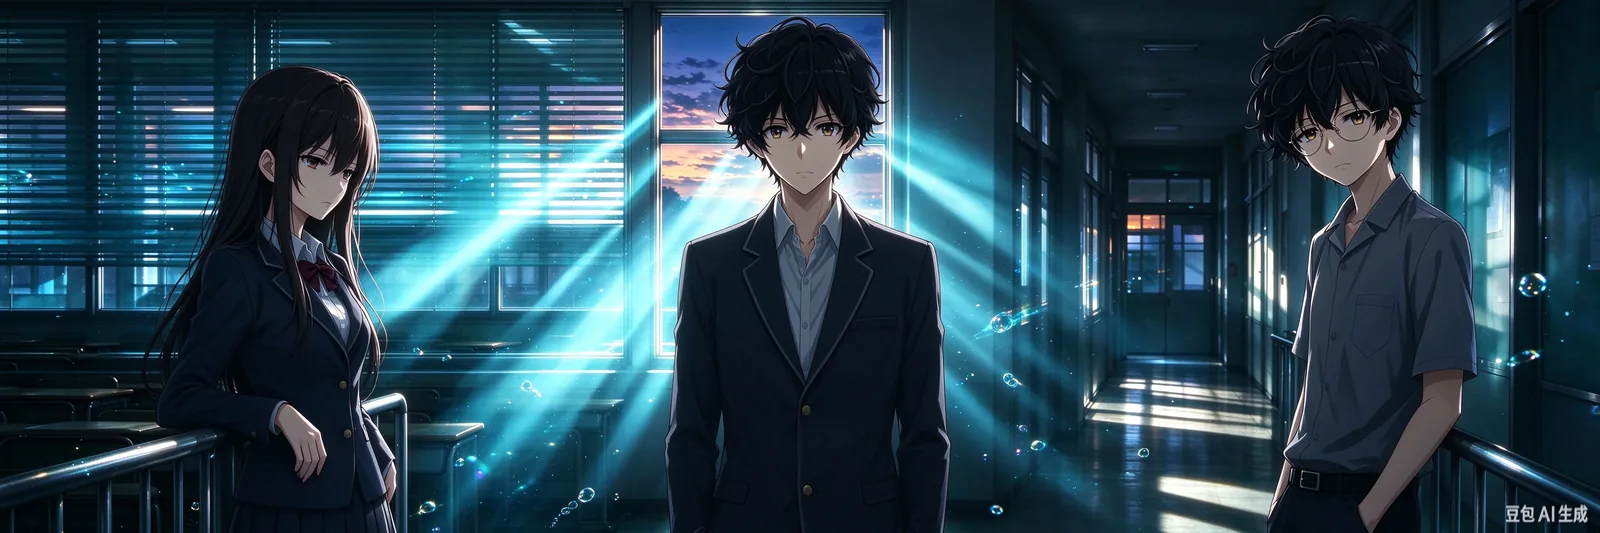
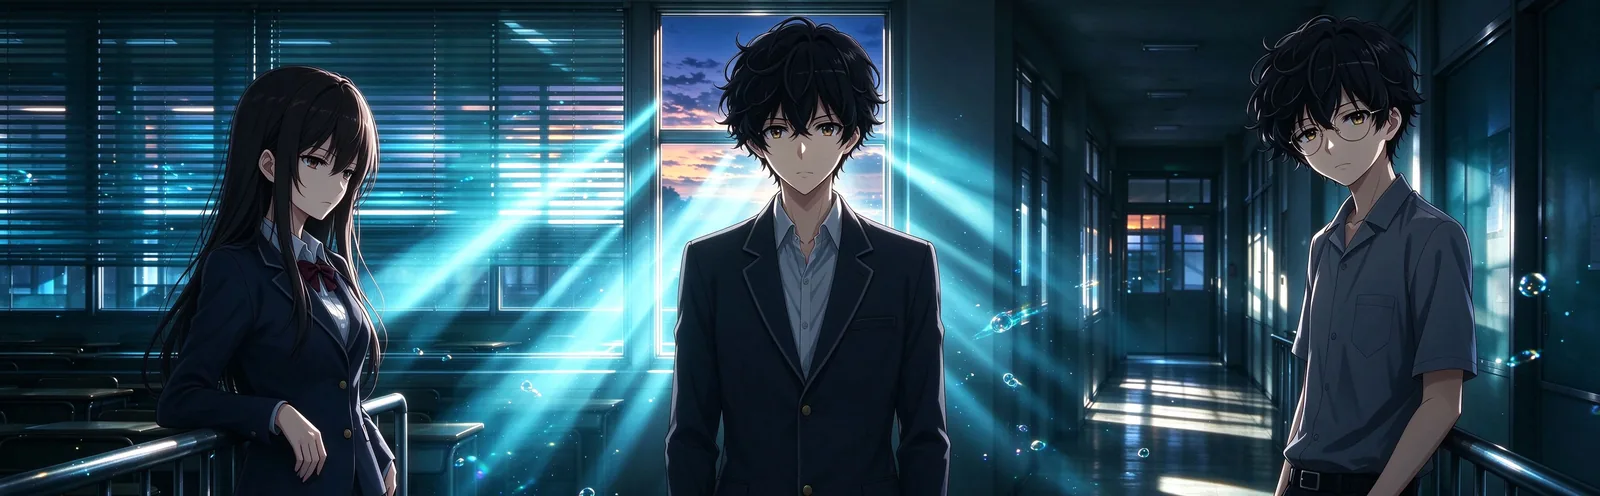
feat: right-align cover, remove watermark

diff --git a/README.md b/README.md
@@ -1,6 +1,4 @@
-<p align="center">
-  <img src="./assets/cover.webp" alt="cover" width="100%" />
-</p>
+<img align="right" width="45%" src="./assets/cover.webp" alt="cover" />
 
 ### Hi, I'm xinrenleiZZY 👋
 
